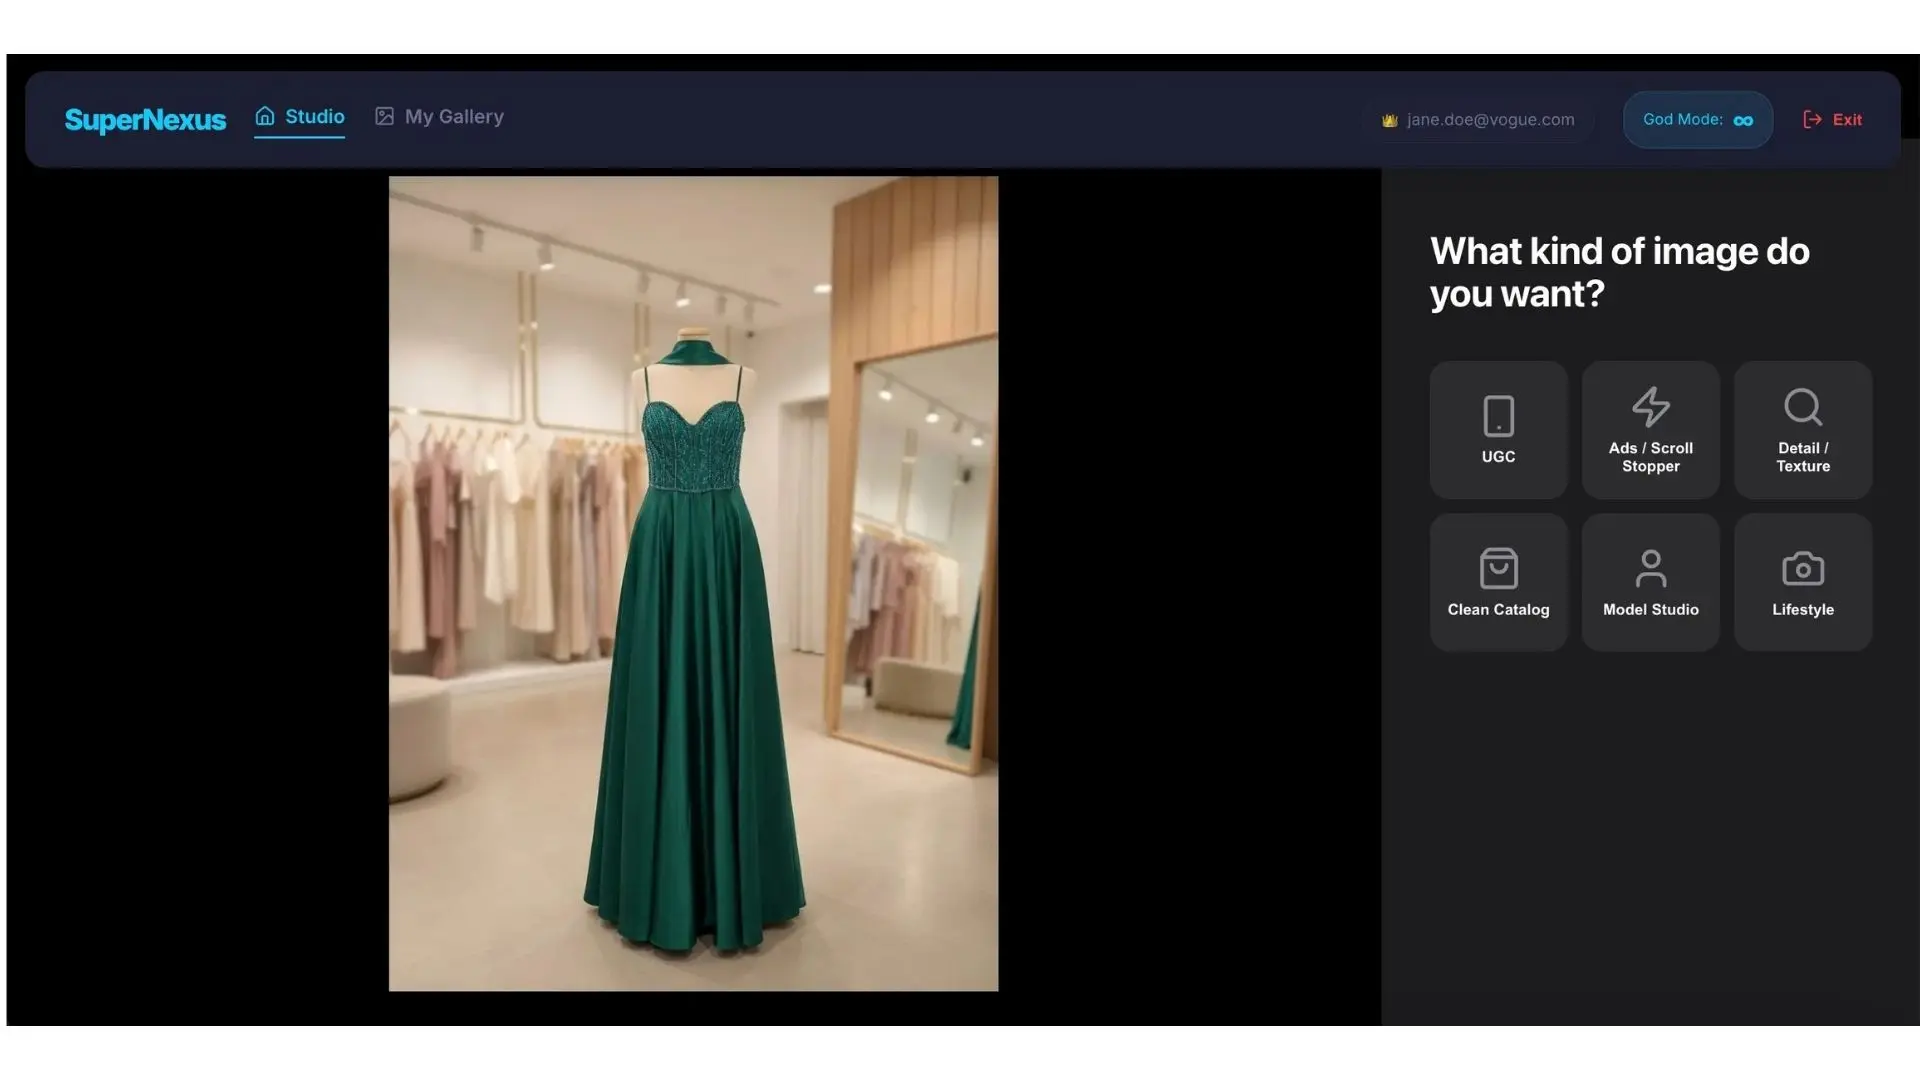
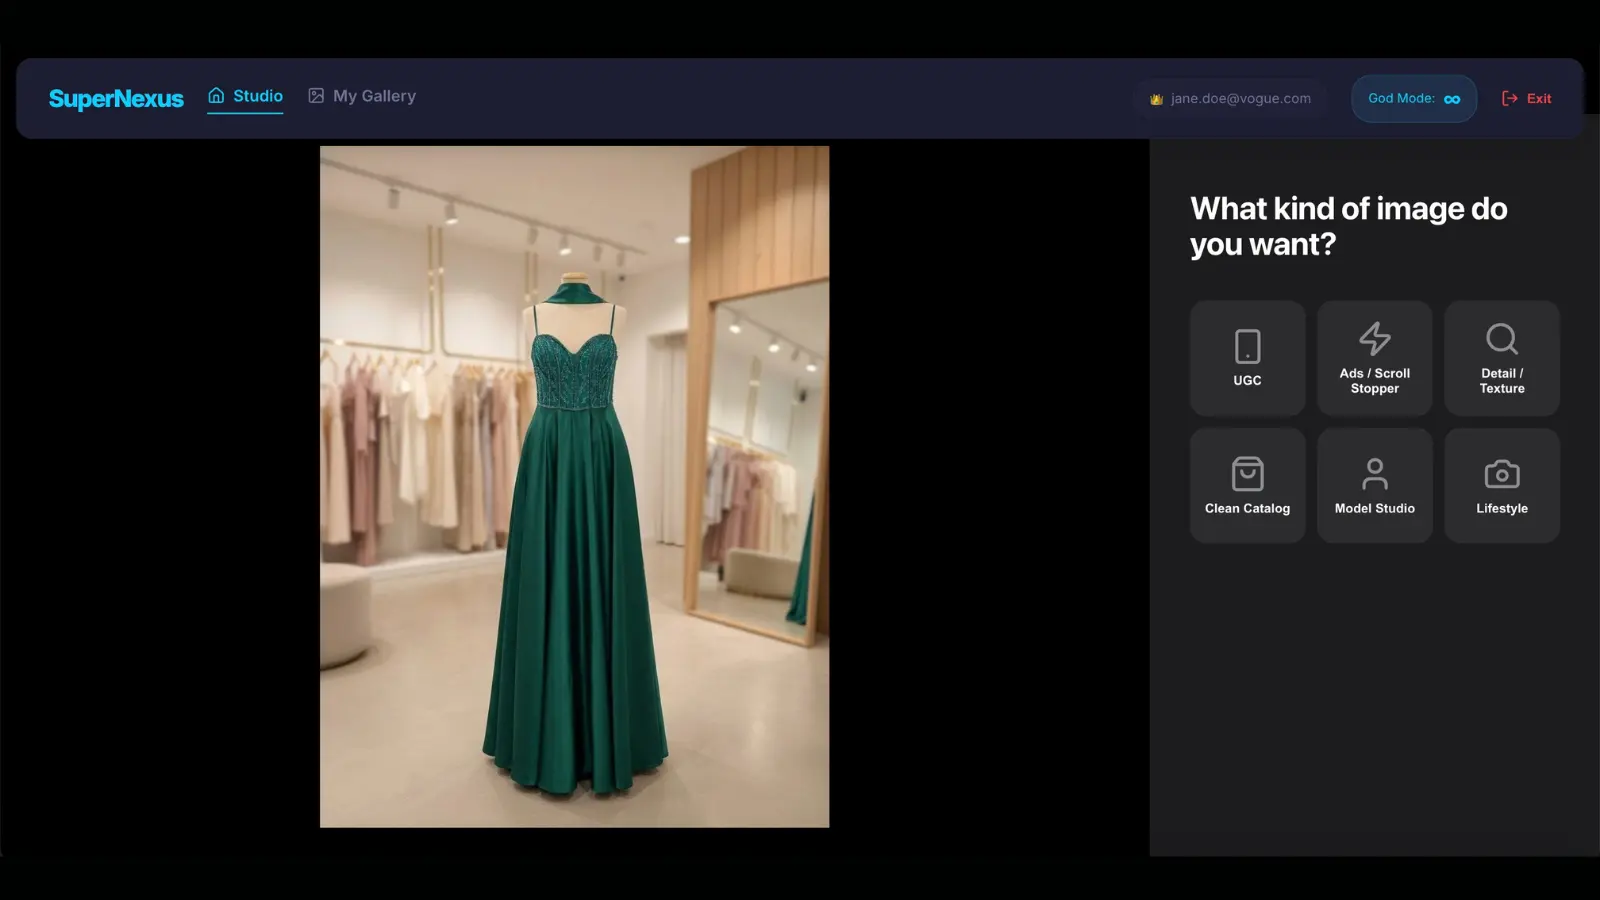
Remove scale and translate hacks, rely on perfect image dimensions

diff --git a/src/components/PlatformShowcase.tsx b/src/components/PlatformShowcase.tsx
@@ -173,8 +173,7 @@ export default function PlatformShowcase({ lang = 'en' }: { lang?: Locale }) {
                             top: 0,
                             left: 0,
                             right: 0,
-                            bottom: 0,
-                            transform: platforms[activePlatform].id === 'mobile' ? 'scale(1.05) translateY(2%)' : 'none'
+                            bottom: 0
                         }}>
                             <Image 
                                 src={platforms[activePlatform].image} 
